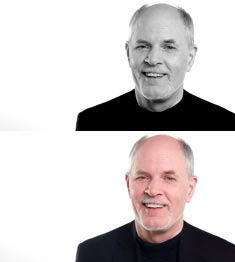
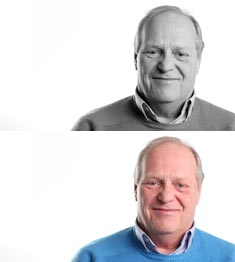
fixed thumb for pre83 ++

Changed region(s): [[0.2979, 0.0, 1.0, 1.0]]

diff --git a/_layouts/post.html b/_layouts/post.html
@@ -5,7 +5,7 @@ layout: wrapper
     {% if page.previous.altUrl %}
     <a href="/{{ page.previous.altUrl }}" title="Previous Year: {{ page.previous.title }}" class="previous">
         <div class="pager-bg"></div>
-        <div class="pager-txt">{{ page.previous.altPager }}</div>
+        <div class="pager-txt" style="font-size: .65em">{{ page.previous.altPager }}</div>
     </a>    
     {% else %}
     <a href="/{{ page.previous.title }}" title="Previous Year: {{ page.previous.title }}" class="previous">

diff --git a/_posts/2013-06-30-before-1983.md b/_posts/2013-06-30-before-1983.md
@@ -3,13 +3,13 @@ published: true
 layout: "alt-post-2"
 title: "Before 1983"
 altUrl: "before-1983"
-altPager: "Prev"
+altPager: "Before 1983"
 timeline: "false"
-teaserText: "Five gay men, who recognized a looming crisis, conceived AIDS Vancouver in 1983 at a dinner party."
+teaserText: "This is the story of our cities West End before the epidemic hit and how AIDS Vancouver came to be."
 subtitle: "The Gay Founding Fathers"
 intro: " "
 video: "http://player.vimeo.com/video/70901545"
-teaserImg: "before-1983-teaser.png"
+teaserImg: "before-1983-teaser.jpg"
 featureImg: "before-1983-feature.jpg"
 
 infoItem:

diff --git a/_posts/2013-07-02-1984.md b/_posts/2013-07-02-1984.md
@@ -3,8 +3,8 @@ published: true
 layout: "post"
 title: "1984"
 timeline: "false"
-teaserText: "AIDS Vancouver’s first community forum brought Paul Popham of the Gay Men’s Health Crisis in NYC and was attended by many including, 'Patient Zero', Gaetan Dugas."
-subtitle: "The Forum"
+teaserText: " "
+subtitle: " "
 teaserImg: "1984-teaser.jpg"
 featureImg: "1984-feature.jpg"
 
